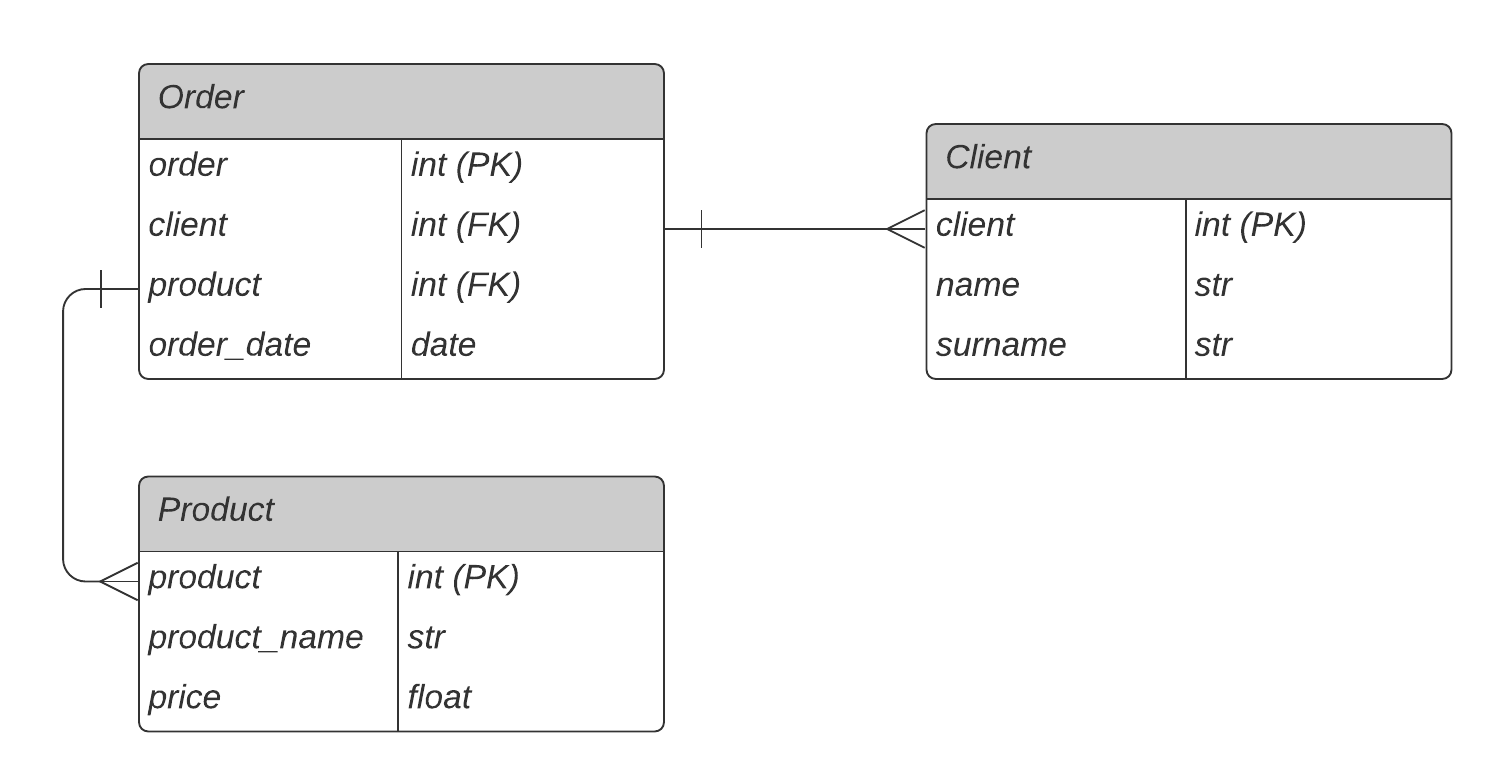
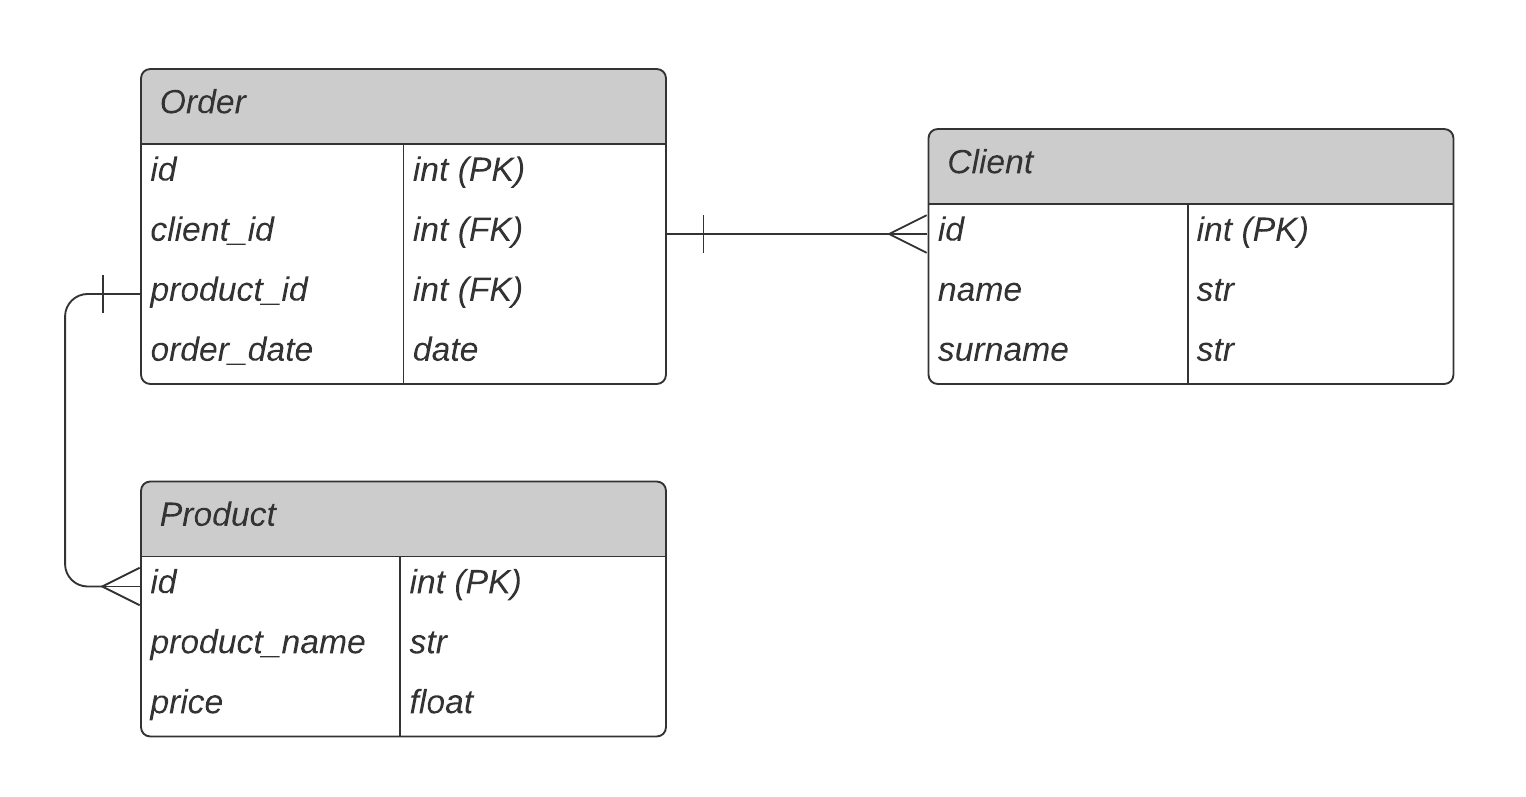
[FIX] change db column names in the schema close #39

diff --git a/docs/GO/golang_project_structure.md b/docs/GO/golang_project_structure.md
@@ -72,7 +72,7 @@ Defines:
 <li> The version of go with which the module is created. </li>
 <li>Module dependency requirements for a successful build. Defines the dependency requirements of both projects and also locks them onto the correct version. </li>
 </ul>
-
+</p>
 
 <br>
 
